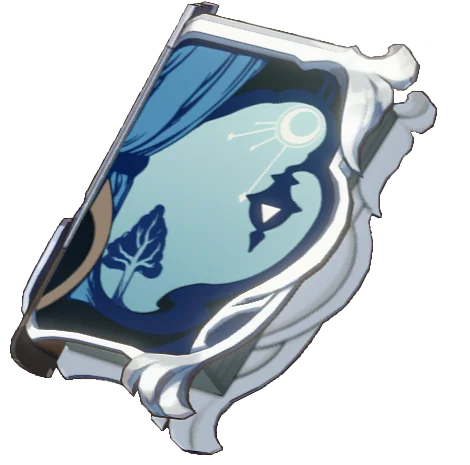
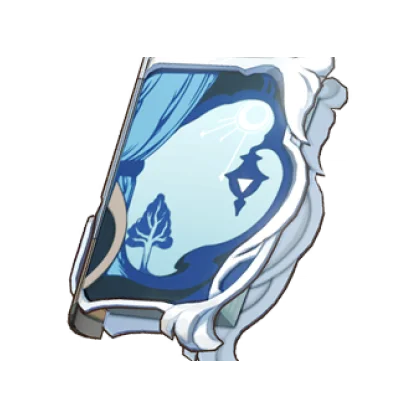
Replace gacha assets and adjust stylesheet

diff --git a/src/lib/components/banner/parts/WishResult.svelte b/src/lib/components/banner/parts/WishResult.svelte
@@ -108,7 +108,7 @@
 						{#if type === 'weapon'}
 							<div class="splash-art anim weapon {weaponType}-parent">
 								<img
-									src="/assets/images/utility/bg-{weaponType}.svg"
+									src="/assets/images/utility/bg-{weaponType}.webp"
 									alt={weaponType}
 									class="weaponbg"
 								/>
@@ -424,11 +424,19 @@
 	}
 
 	.splash-art.weapon img.weaponbg {
-		height: 80%;
+		height: 85%;
 	}
 	.splash-art.weapon.anim img.weaponbg {
 		opacity: 0;
 		animation: weaponbg forwards 1.5s 1;
+	}
+
+	.bow-parent .weaponbg {
+		height: 90% !important;
+		transform: translate(-53%, -50%) !important;
+	}
+	.catalyst-parent .weaponbg {
+		height: 90% !important;
 	}
 
 	.anim .bow,
@@ -446,7 +454,7 @@
 	.sword,
 	.claymore,
 	.catalyst {
-		filter: drop-shadow(0.7rem 0.6rem 0.2rem rgba(0, 0, 0, 0.7));
+		filter: drop-shadow(0.6rem 0.6rem 0.05rem rgb(0, 0, 0));
 	}
 
 	.bow {
@@ -457,21 +465,14 @@
 		height: 105% !important;
 	}
 
-	.catalyst-parent .weaponbg {
-		height: 100% !important;
-	}
 	.catalyst {
-		height: 45% !important;
+		height: 40% !important;
 	}
 
 	.polearm {
 		top: 65% !important;
 		left: 48% !important;
 		height: 130% !important;
-	}
-
-	.sword-parent .weaponbg {
-		height: 60% !important;
 	}
 
 	.bonus {

diff --git a/src/lib/components/inventory/InventoryItem.svelte b/src/lib/components/inventory/InventoryItem.svelte
@@ -104,6 +104,7 @@
 		overflow: hidden;
 		border-top-left-radius: 0.5em;
 		border-top-right-radius: 0.5em;
+		border-bottom-right-radius: 1.2em;
 	}
 	picture img {
 		width: 100%;
